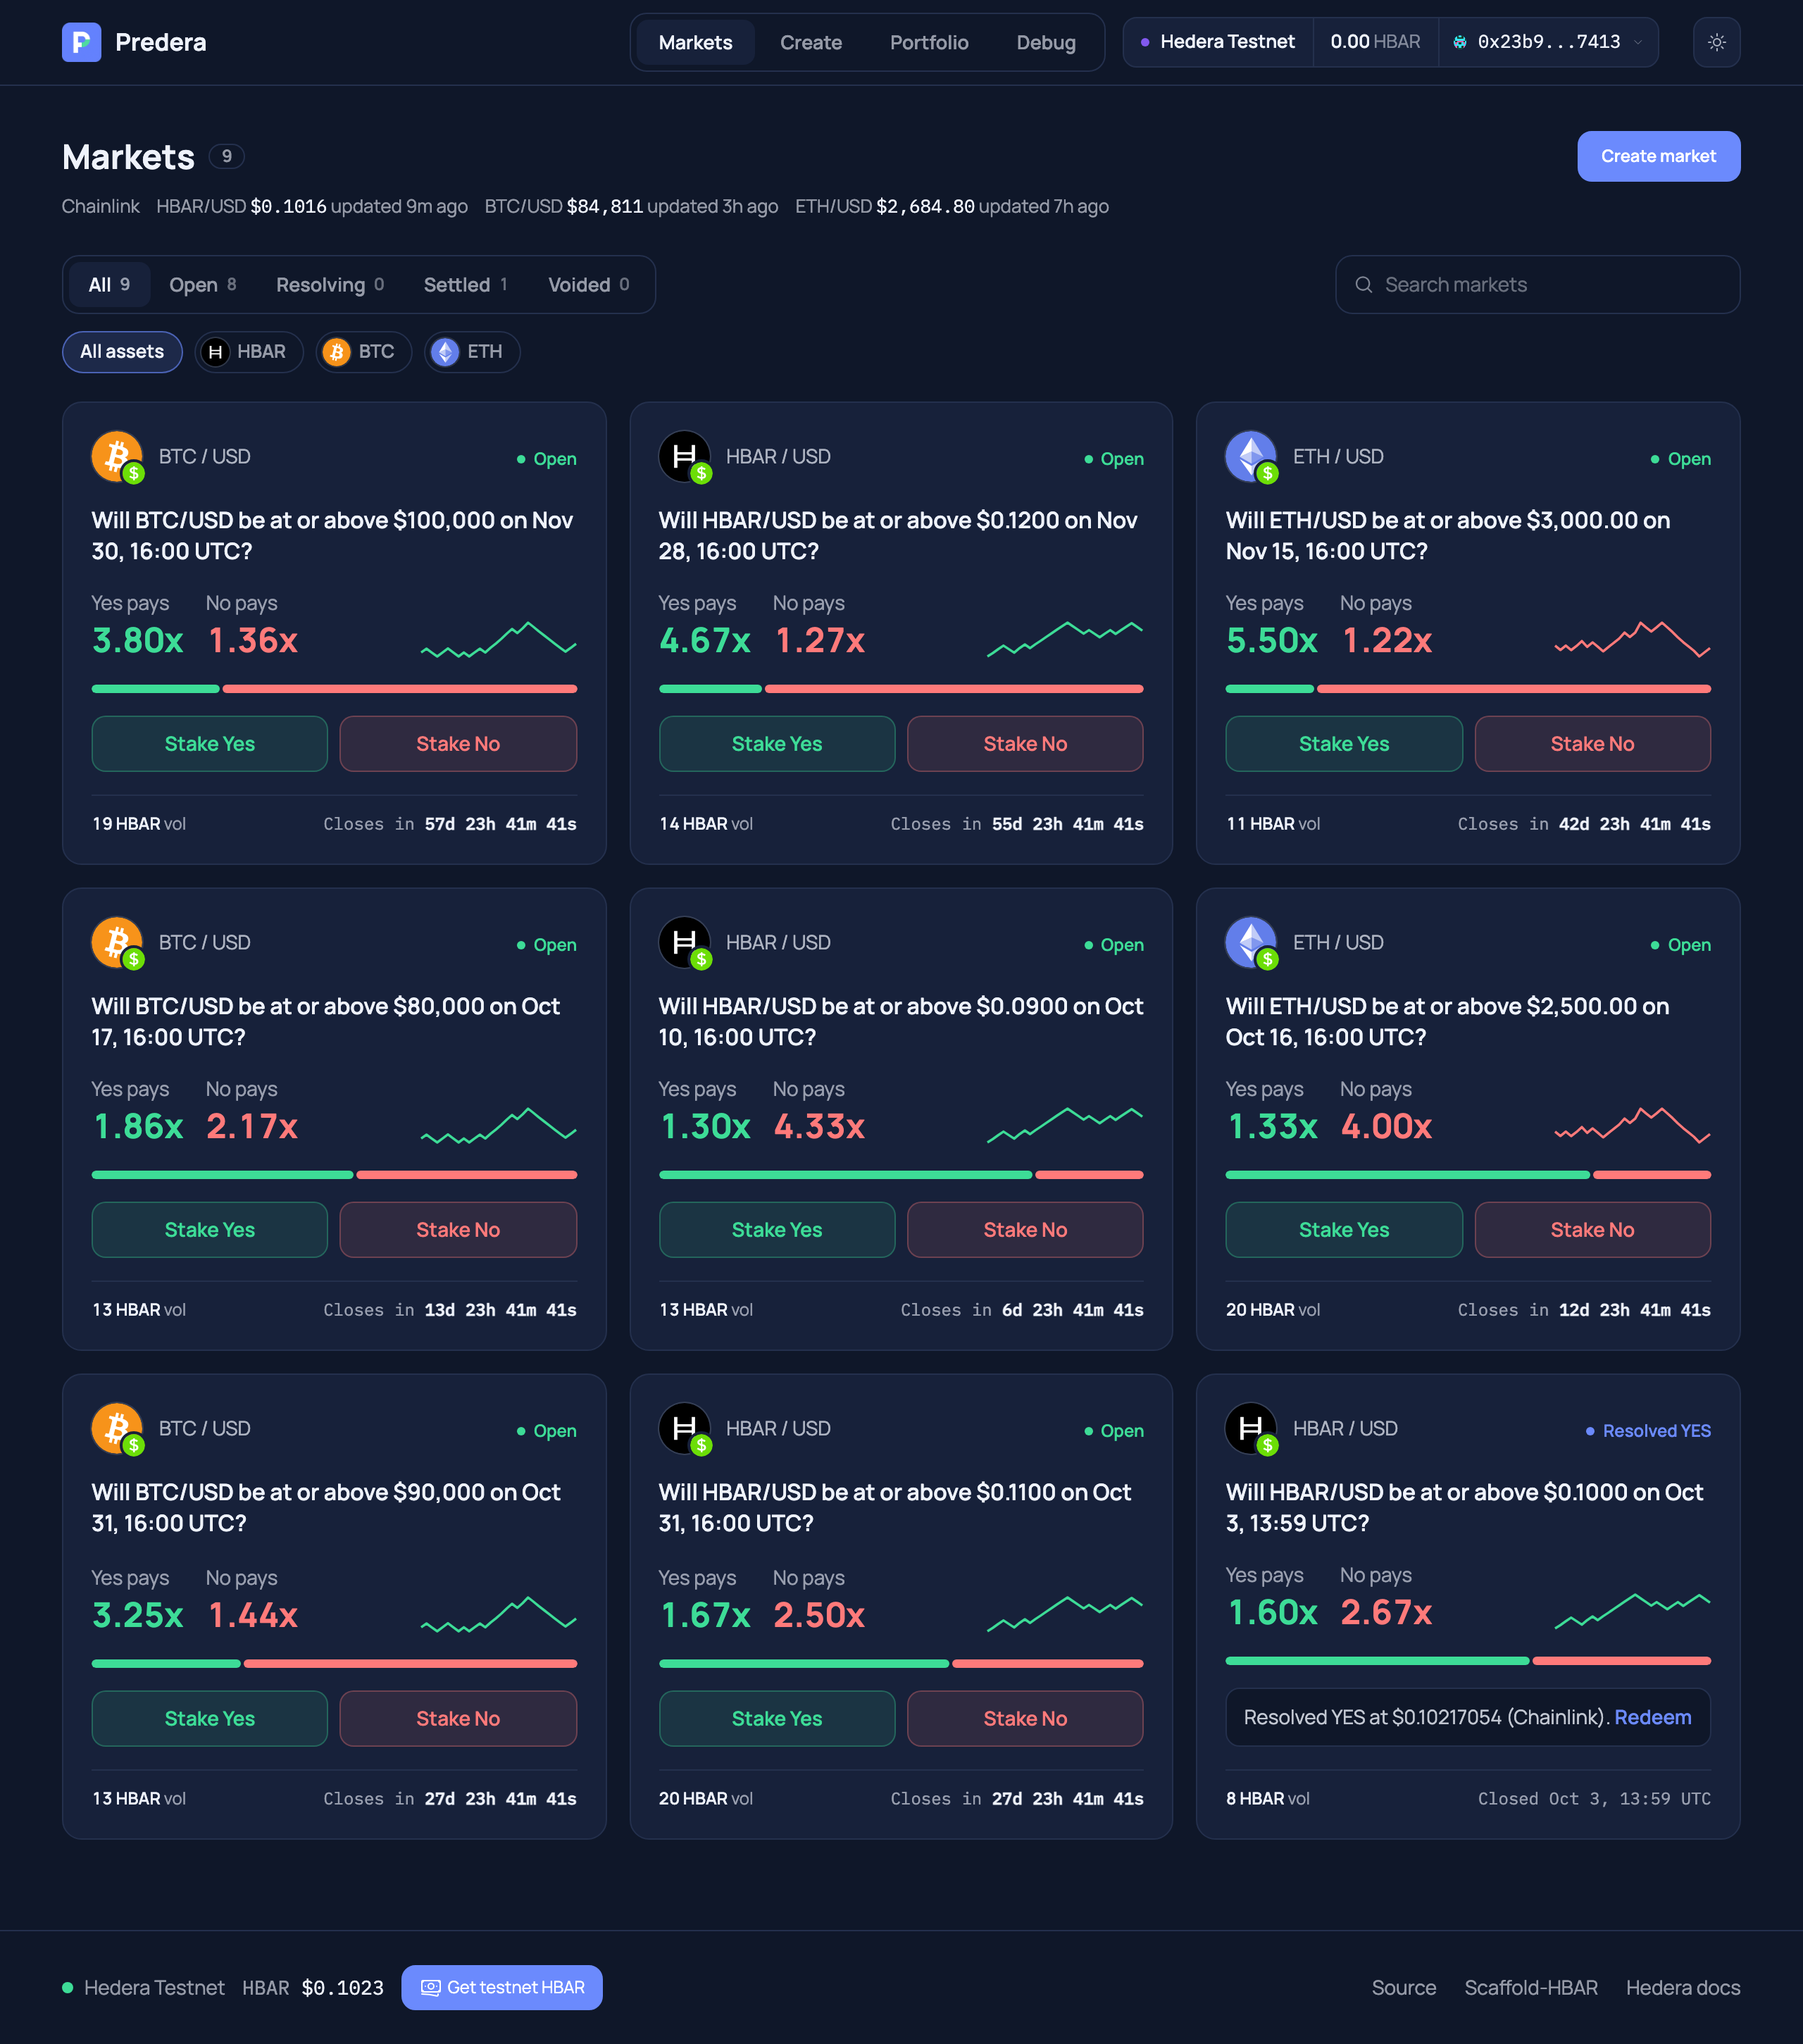
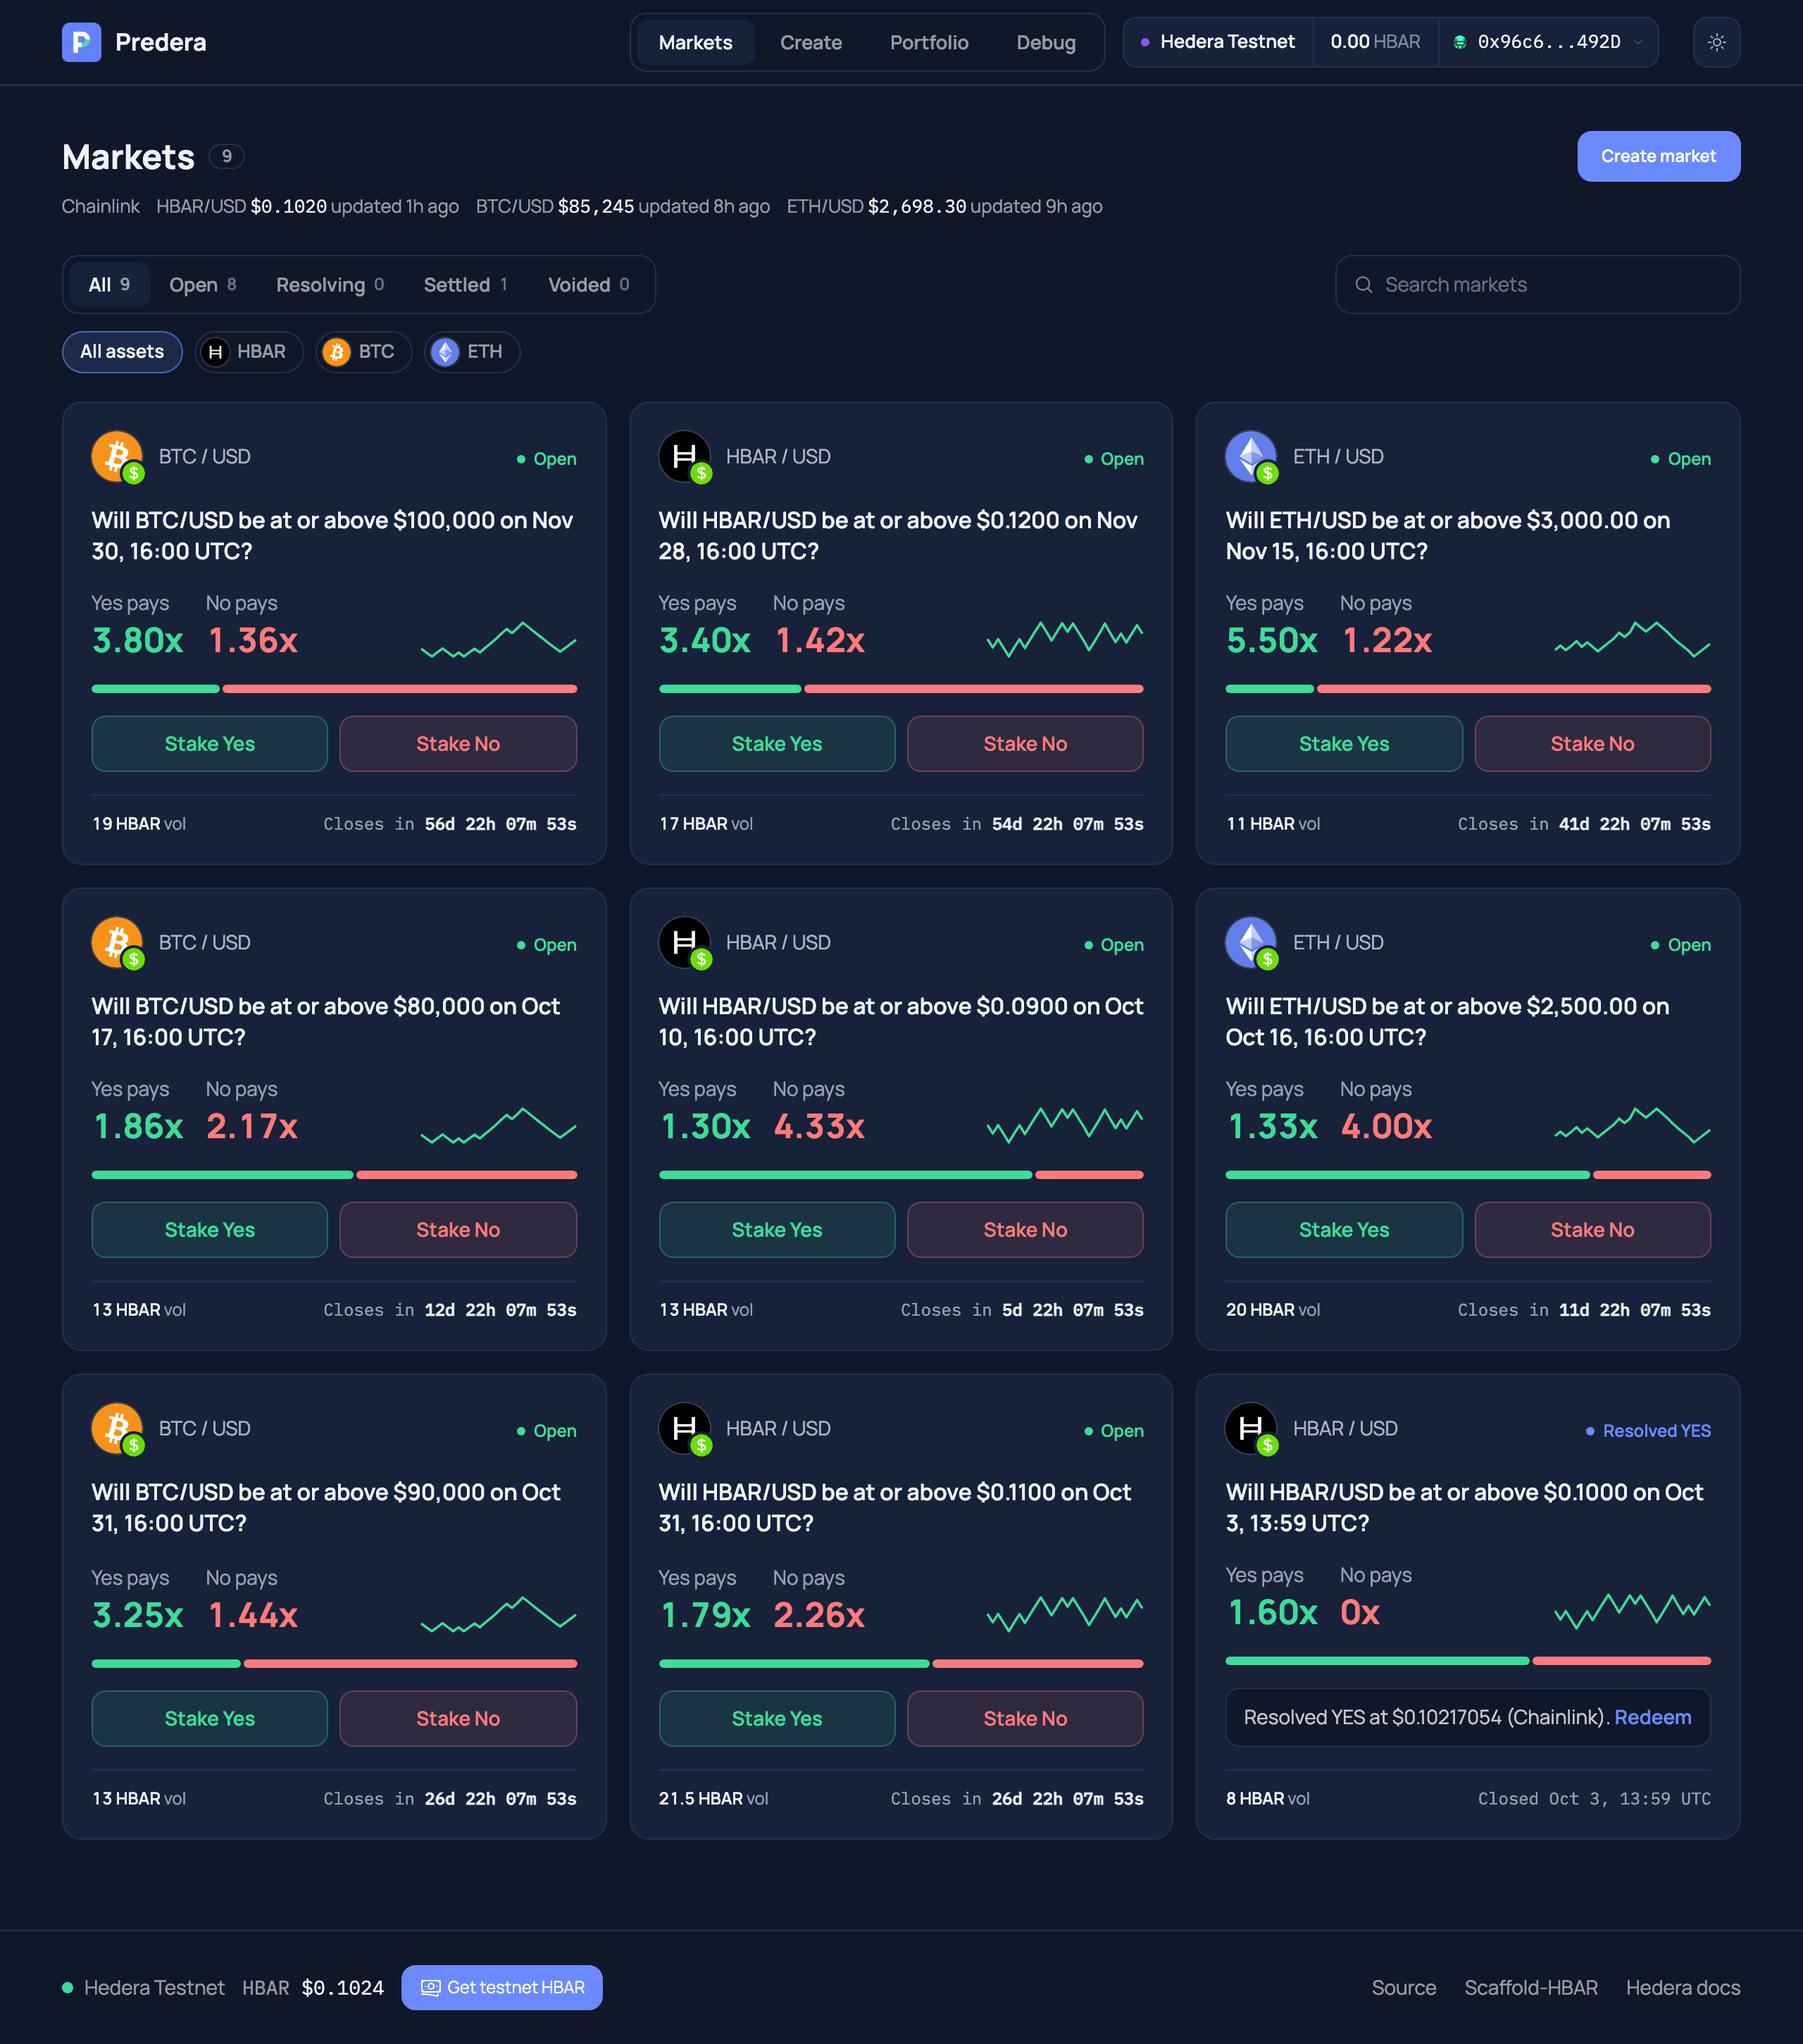
docs: show the home page in the README and fix the C2 settlement hash
The Harness C2 row cited a settlement from an earlier deployment; market 0 of
the current deployment settled in 0xc06423c8.

diff --git a/README.md b/README.md
@@ -8,9 +8,11 @@ npm create scaffold-hbar@latest -- --template superhbar/prediction-market
 
 Live demo on Hedera testnet: [predera.vercel.app](https://predera.vercel.app). It reads the shipped deployment, so you can open a market's settlement timeline and activity log without installing anything. The built-in burner wallet works there too, on testnet only: a fresh burner address is not a Hedera account until it first receives HBAR, so send it testnet HBAR (the footer links the Portal faucet) before staking. Until then the portfolio says so instead of showing balances.
 
+![Predera home page: every market with its odds, pool sizes and countdown, filterable by status and asset, read straight from the Hedera relay and mirror node](docs/screenshots/markets.png)
+
 ![Market 0 on testnet: the scheduled call found no Chainlink round, booked two retries on its own, and the second retry settled YES. Every step is in the activity panel with a Hashscan link](docs/screenshots/market-detail.png)
 
-Demo video (100 s, testnet, production build): [docs/predera-demo.mp4](docs/predera-demo.mp4). More screenshots: [an open market with the payout preview](docs/screenshots/market-open.png), [its Trade tab with the implied chance](docs/screenshots/market-trade.png), [market list](docs/screenshots/markets.png), [create form](docs/screenshots/create.png), [mobile](docs/screenshots/market-detail-mobile.png), [light theme](docs/screenshots/market-detail-light.png). All are taken from the production build against the live testnet deployment.
+Demo video (100 s, testnet, production build): [docs/predera-demo.mp4](docs/predera-demo.mp4). More screenshots: [an open market with the payout preview](docs/screenshots/market-open.png), [its Trade tab with the implied chance](docs/screenshots/market-trade.png), [create form](docs/screenshots/create.png), [mobile](docs/screenshots/market-detail-mobile.png), [light theme](docs/screenshots/market-detail-light.png). All are taken from the production build against the live testnet deployment.
 
 ## What's in it
 
@@ -473,7 +475,7 @@ Tier 3 acceptance contract, graded by hand. C1, C2 and C4 were re-graded on 2026
 | Id | Assertion | Result |
 |---|---|---|
 | C1 | Market 0 lists created, two stakes, two retries booked, settled YES, redeemed, reserve withdrawn, newest first, with correct amounts | Pass: 8 entries, 5 and 3 HBAR |
-| C2 | Each entry links to the transaction that emitted it | Pass: every hash matches the mirror node logs, settlement is `0xefda2487...` |
+| C2 | Each entry links to the transaction that emitted it | Pass: every hash matches the mirror node logs, settlement is `0xc06423c8...` |
 | C3 | Loading and error states, page keeps working | Pass by code review (skeleton, error with Retry, failures stay inside the panel) |
 | C4 | Existing routes and the resolution strip still render | Pass ("Resolved YES") |
 | C5 | A new stake appears after a real transaction | Pass with the deployer as signer: [stake on market 1](https://hashscan.io/testnet/transaction/0x8b508cde06355e3acbc1e6f5439ef0b5048373f039e7fcbcd0122a94e841618e) showed up on refresh |
